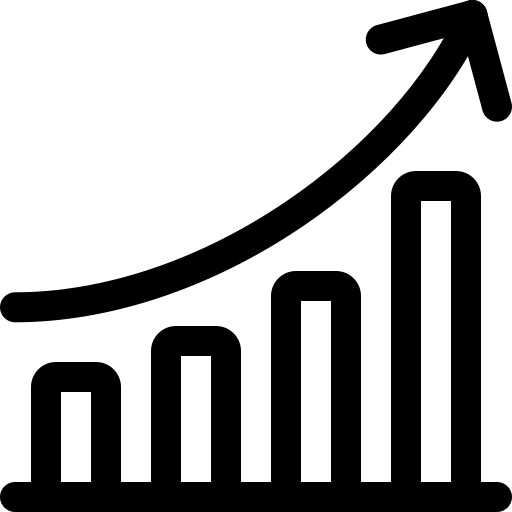
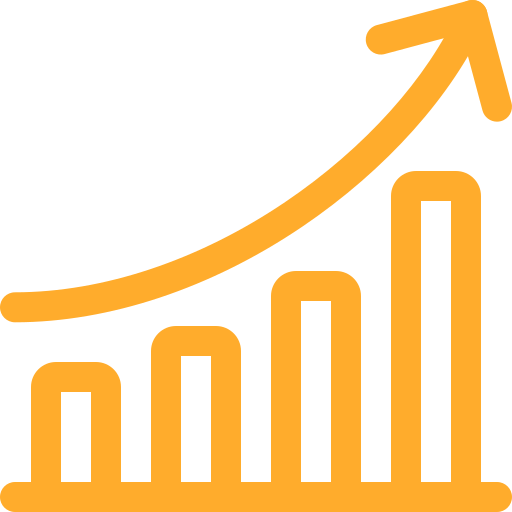
Values with new color

diff --git a/src/components/Carousel/CarouselItemDots.jsx b/src/components/Carousel/CarouselItemDots.jsx
@@ -12,28 +12,34 @@ import "./carousel-item-dots.css";
 // eslint-disable-next-line react/prop-types
 const CarouselItemDots = ({ colorColum }) => {
   return (
-    <div className="carousel-item-dots__container">
+    <Box className="carousel-item-dots__container">
       <Box className="carousel-item-dots__wrapper" sx={{ display: { lg: "none", xs: "flex" } }}>
-        <div className="carousel-item-dots__left">
+        <Box className="carousel-item-dots__left">
           <Typography variant="body1">
             Lorem ipsum dolor sit amet, consectetuer adipiscing elit. Aenean commodo ligula eget
             dolor. Aenean massa. Cum sociis natoque penatibus et magnis dis parturient montes,
             nascetur.Aenean massa. Cum sociis natoque penatibus et magnis dis parturient montes,
             nascetur
           </Typography>
-        </div>
-        <div className="carousel-item-dots__center">
-          <div className="carousel-item-dots__center-img-container">
+        </Box>
+        <Box className="carousel-item-dots__center">
+          <Box
+            className="carousel-item-dots__center-img-container"
+            sx={{
+              img: {
+                width: "100% !important",
+                height: "100% !important",
+              },
+            }}
+          >
             <Image
               img={ImgCarouselDots}
-              width="100%"
-              height="100%"
               style={{
                 borderRadius: "10px",
               }}
             />
-          </div>
-        </div>
+          </Box>
+        </Box>
       </Box>
       <Box className="carousel-item-dots__left" sx={{ display: { lg: "flex", xs: "none" } }}>
         <Typography variant="body1">
@@ -44,16 +50,22 @@ const CarouselItemDots = ({ colorColum }) => {
         </Typography>
       </Box>
       <Box className="carousel-item-dots__center" sx={{ display: { lg: "flex", xs: "none" } }}>
-        <div className="carousel-item-dots__center-img-container">
+        <Box
+          className="carousel-item-dots__center-img-container"
+          sx={{
+            img: {
+              width: "100% !important",
+              height: "100% !important",
+            },
+          }}
+        >
           <Image
             img={ImgCarouselDots}
-            width="100%"
-            height="100%"
             style={{
               borderRadius: "10px",
             }}
           />
-        </div>
+        </Box>
       </Box>
       <Box className="carousel-item-dots__right" sx={{ backgroundColor: colorColum }}>
         <Typography variant="body1">Lorem ipsum dolor sit amet</Typography>
@@ -67,7 +79,7 @@ const CarouselItemDots = ({ colorColum }) => {
           Ver Producto
         </Button>
       </Box>
-    </div>
+    </Box>
   );
 };
 

diff --git a/src/components/KnowUs/KnowUs.jsx b/src/components/KnowUs/KnowUs.jsx
@@ -69,10 +69,12 @@ const KnowUs = () => {
                 marginBottom: "10px",
                 img: {
                   filter: "invert(1)",
+                  width: "35px !important",
+                  height: "35px !important",
                 },
               }}
             >
-              <Image img={mission} width="35px" height="35px" />
+              <Image img={mission} />
               <Typography
                 sx={{ marginLeft: "10px" }}
                 className="know-us__title-section"
@@ -100,10 +102,12 @@ const KnowUs = () => {
                 marginBottom: "10px",
                 img: {
                   filter: "invert(1)",
+                  width: "35px !important",
+                  height: "35px !important",
                 },
               }}
             >
-              <Image img={vision} width="35px" height="35px" />
+              <Image img={vision} />
               <Typography
                 sx={{ marginLeft: "10px" }}
                 className="know-us__title-section"

diff --git a/src/components/Carousel/CarouselItemArrows.jsx b/src/components/Carousel/CarouselItemArrows.jsx
@@ -28,8 +28,14 @@ const CarouselItemArrows = () => {
         </div>
       </div>
       <div className="car-item-arrows__right">
-        <Box className="car-item-arrows__right-img-container" sx={{position:{md:"relative", xs:"absolute"}}}>
-          <Image img={ImgArticle} height="100%" width="100%" style={{ objectFit: "cover" }} />
+        <Box
+          className="car-item-arrows__right-img-container"
+          sx={{
+            img: { width: "100% !important", height: "100% !important" },
+            position: { md: "relative", xs: "absolute" },
+          }}
+        >
+          <Image img={ImgArticle} style={{ objectFit: "cover" }} />
         </Box>
       </div>
     </div>

diff --git a/src/components/Image/Image.jsx b/src/components/Image/Image.jsx
@@ -19,12 +19,14 @@ const Image = (props) => {
 Image.defaultProps = {
   className: {},
   style: {},
+  height: 35,
+  width: 35,
 };
 
 Image.propTypes = {
   img: PropTypes.string.isRequired,
-  width: PropTypes.string.isRequired,
-  height: PropTypes.string.isRequired,
+  width: PropTypes.number,
+  height: PropTypes.number,
   className: PropTypes.objectOf(PropTypes.string || PropTypes.number),
   style: PropTypes.objectOf(PropTypes.string || PropTypes.number),
 };

diff --git a/src/components/OurValues/ValueItem/ValueItem.jsx b/src/components/OurValues/ValueItem/ValueItem.jsx
@@ -41,7 +41,7 @@ const ValueItem = (props) => {
             background: theme.palette.secondary.main,
           }}
         >
-          <Image img={ValuesIcon[content.Icon]} width="35px" height="35px" />
+          <Image img={ValuesIcon[content.Icon]} width={35} height={35} />
         </Box>
       </div>
       <div className="value-item__text-container">
